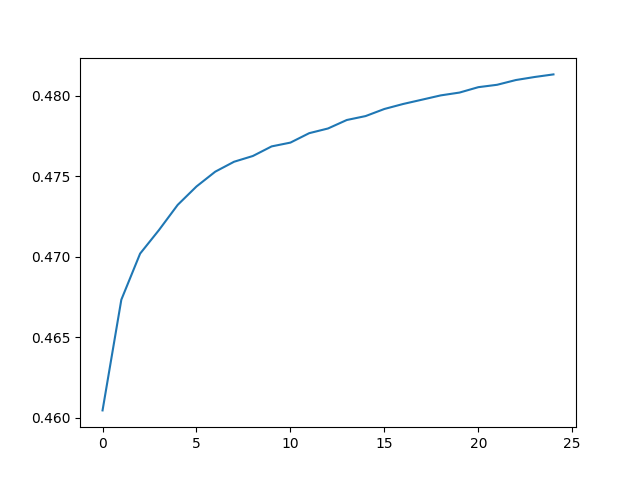
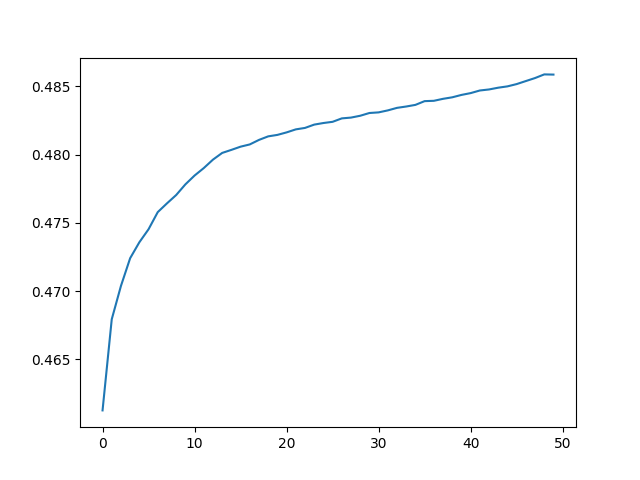
add time plots

diff --git a/genetic_algorithm/population.py b/genetic_algorithm/population.py
@@ -58,8 +58,8 @@ class Population:
         
         # Extract out the objects from the chromosomes. 
         new_child_A, new_child_B = self.breeding_function(parent_1.obj, parent_2.obj)
-        new_member_A = Chromosome(new_child_A, parent_A_id=parent_1.get_family_history(), parent_B_id=parent_2.get_family_history())
-        new_member_B = Chromosome(new_child_B, parent_A_id=parent_1.get_family_history(), parent_B_id=parent_2.get_family_history())
+        new_member_A = Chromosome(new_child_A, parent_A_id=parent_1, parent_B_id=parent_2)
+        new_member_B = Chromosome(new_child_B, parent_A_id=parent_1, parent_B_id=parent_2)
         return new_member_A, new_member_B
     
     def get_member_by_id(self, sel_id: str) -> Chromosome or None:
@@ -79,6 +79,10 @@ class Population:
         RootLogger.log_debug('New population updated successfully.')
         self.iteration_number += 1
 
+    def dispose_of_dead_chromosomes(self, dead_chromosomes: List[Chromosome]):
+        for chrom in dead_chromosomes:
+            del chrom
+
     def get_next_population(self):
         RootLogger.log_info(f'Generating next Population...')
         new_population = []
@@ -87,7 +91,11 @@ class Population:
         # Select best performing networks
         RootLogger.log_debug(f'Performing Elitist Selection on population.')
         elitist_num = int(self.elitist_cutoff*self.population_size)
-        top_performers = sorted(self.population, key=lambda mem: self.performance_dict[mem.unique_id], reverse=True)[:elitist_num]
+        sorted_by_performance = sorted(self.population, key=lambda mem: self.performance_dict[mem.unique_id], reverse=True)
+        top_performers = sorted_by_performance[:elitist_num]
+        bot_performers = sorted_by_performance[elitist_num:]
+        self.dispose_of_dead_chromosomes(bot_performers)
+
         new_population += top_performers
 
         # Compute Children

diff --git a/playground.py b/playground.py
@@ -1,6 +1,6 @@
 from genetic_algorithm.initial_population_generator import initiate_population_from_network
 from utility import read_object_from_file
-from graph_metrics import plot_per_round_metrics
+from graph_metrics import plot_per_round_metrics, plot_all_stats, plot_time
 from genetic_algorithm.breeder import breed_networks
 """
 This script is purely for informal testing and 'playing' with new code. 
@@ -10,7 +10,8 @@ This script is purely for informal testing and 'playing' with new code.
 #generate_diagram('new_initial_net.zip', 'test_diagrams/new_net')
 
 Network = read_object_from_file('new_initial_net.pkl')
-Network2 = read_object_from_file('new_initial_net.pkl')
+print(Network)
+#Network2 = read_object_from_file('new_initial_net.pkl')
 
 # net1, net2 = breed_networks(Network, Network2)
 # net3, net4 = breed_networks(net1, net2)
@@ -18,9 +19,10 @@ Network2 = read_object_from_file('new_initial_net.pkl')
 # print(net1, net2, net3, net4, net5, net6)
 
 Pop = initiate_population_from_network(Network, 1000)
-# res = Pop.run(50)
-# filename = Pop.export_metrics()
-# plot_per_round_metrics(filename, 'plot2.png')
+res = Pop.run(75)
+filename = Pop.export_metrics()
+plot_all_stats(filename)
+plot_time(filename)
 
 
 # print(Network.ridership_density_score)

diff --git a/graph_metrics.py b/graph_metrics.py
@@ -3,8 +3,33 @@ import pandas as pd
 
 INTERATION_HEADER = 'iteration'
 AVERAGE_FITNESS_HEADER = 'avg_score'
+BEST_FITNESS_HEADER = 'best_fitness'
+MEDIAN_FITNESS_HEADER = 'med_score'
+TIME_HEADER = 'time'
 
 def plot_per_round_metrics(filename, output_file='plot1.png'):
     df = pd.read_csv(filename)
     plt.plot(df[INTERATION_HEADER], df[AVERAGE_FITNESS_HEADER])
+    plt.savefig(output_file)
+
+
+def plot_all_stats(filename, output_file='plot_comb.png'):
+    df = pd.read_csv(filename)
+    x = df[INTERATION_HEADER]
+    avg = df[AVERAGE_FITNESS_HEADER]
+    best = df[BEST_FITNESS_HEADER]
+    med = df[MEDIAN_FITNESS_HEADER]
+    fig = plt.figure()
+    ax1 = fig.add_subplot(111)
+
+    ax1.scatter(x, best, c='b', marker="s", label='best')
+    ax1.scatter(x, avg, c='r', marker="o", label='average')
+    ax1.scatter(x, med, c='g', marker="o", label='med')
+    plt.legend(loc='upper left')
+    plt.savefig(output_file)
+    plt.clf()
+
+def plot_time(filename, output_file='time.png'):
+    df = pd.read_csv(filename)
+    plt.plot(df[INTERATION_HEADER], df[TIME_HEADER])
     plt.savefig(output_file)
